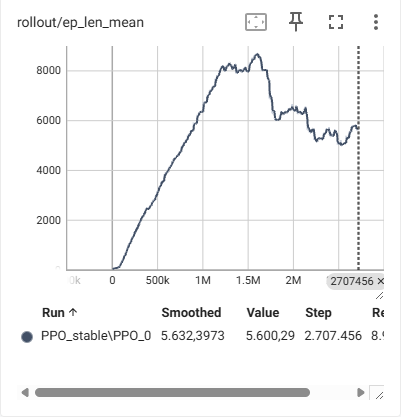
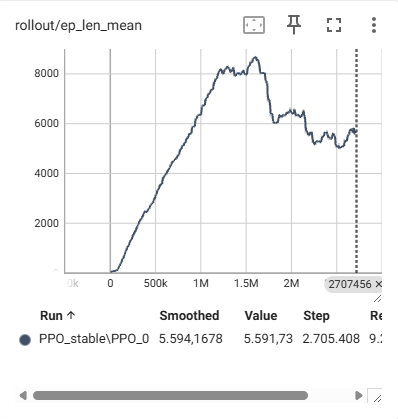
Adiciona imagem do gráfico do TensorBoard ao projeto

diff --git a/README.md b/README.md
@@ -39,4 +39,4 @@ python play_ppo.py
 ## Resultados
 O agente foi treinado por aproximadamente 2.7 milhões de timesteps. O gráfico abaixo, gerado pelo TensorBoard, mostra a evolução da performance média do agente ao longo do tempo.
 
-![alt text](image-1.png)
+![alt text](image.png)
